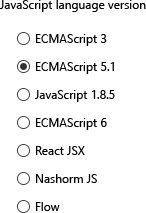
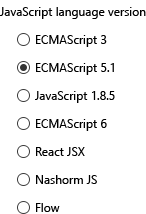
Edit image placement for "When to use".

diff --git a/_docs/controls/radio_button.md b/_docs/controls/radio_button.md
@@ -11,29 +11,39 @@ Use the radio button to choose only one parameter from 2—5 options.
 Do **not** use radio buttons in the following cases:
 * If the user might select multiple options, use a [Checkbox]({{site.baseurl}}/controls/checkbox).
 * If there are only two opposite options such as Yes and No, instead use a checkbox:
-    <p class="label incorrect">Incorrect</p>
-    ![]({{site.baseurl}}/images/radiobutton/tworadio_incorrect.png)
-
-    <p class="label correct">Correct</p>
-    ![]({{site.baseurl}}/images/radiobutton/tworadio_correct.png)
+  <table>
+  <col width="200px">
+      <tr>
+          <td> <p class="label incorrect">Incorrect</p> </td>
+          <td> <p class="label correct">Correct</p> </td>
+      </tr>
+      <tr>
+          <td> <img src="{{site.baseurl}}/images/radiobutton/tworadio_incorrect.png" style="margin-top: -5px; margin-bottom: 5px;"> </td>
+          <td> <img src="{{site.baseurl}}/images/radiobutton/tworadio_correct.png" style="margin-top: -5px; margin-bottom: 5px;"> </td>
+      </tr>
+  </table>
 * If the parameter list includes more than 4 number choices with equal steps between, use the slider to select from a number range. Also if the specific value does not matter (e.g. delay in milliseconds) or it’s possible to provide feedback on the effect of the setting changes.
 
 
 Consider using a [Combo Box]({{site.baseurl}}/controls/combo_box):
-* If the number of options is more than four.
+* If the number of options is more than five:
+  <table>
+  <col width="200px">
+      <tr>
+          <td> <p class="label incorrect">Incorrect</p> </td>
+          <td> <p class="label correct">Correct</p> </td>
+      </tr>
+      <tr>
+          <td> <img src="{{site.baseurl}}/images/radiobutton/combobox_incorrect.png" style="margin-top: -5px; margin-bottom: 5px;"> </td>
+          <td> <img src="{{site.baseurl}}/images/radiobutton/combobox_correct.png" style="margin-top: -5px; margin-bottom: 5px;"> </td>
+      </tr>
+  </table>
 * If the screen space is limited.
 * If it is assumed that the option will be changed less often than others on the screen.
 * If there are other combo boxes on the window. The list of radio buttons is more noticeable than the combo box, so they will look like more important settings.
 * If layout combines various UI elements for one setting. In this case a combo box can be used for options even if their number is less than five:
     ![]({{site.baseurl}}/images/radiobutton/combobox.png)
 *The automatic updates setting consists of a checkbox, four lengthy-labeled options in a combo box and a button.*
-* If the number of options is more than five, the screen space is limited, or if it is assumed that the option will be used less often than others on the screen:
-    <p class="label incorrect">Incorrect</p>
-    ![]({{site.baseurl}}/images/radiobutton/combobox_incorrect.png)
-
-    <p class="label correct">Correct</p>
-    ![]({{site.baseurl}}/images/radiobutton/combobox_correct.png)
-
 
 ## How to use
 
